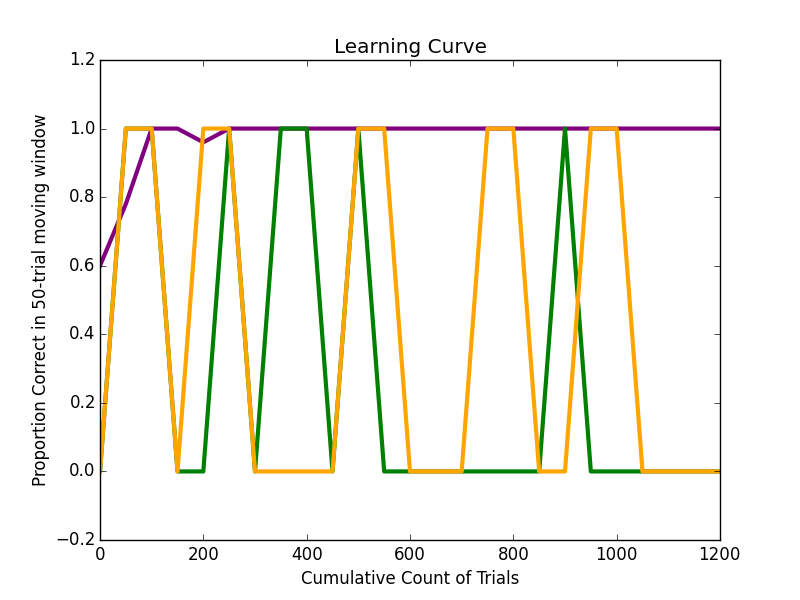
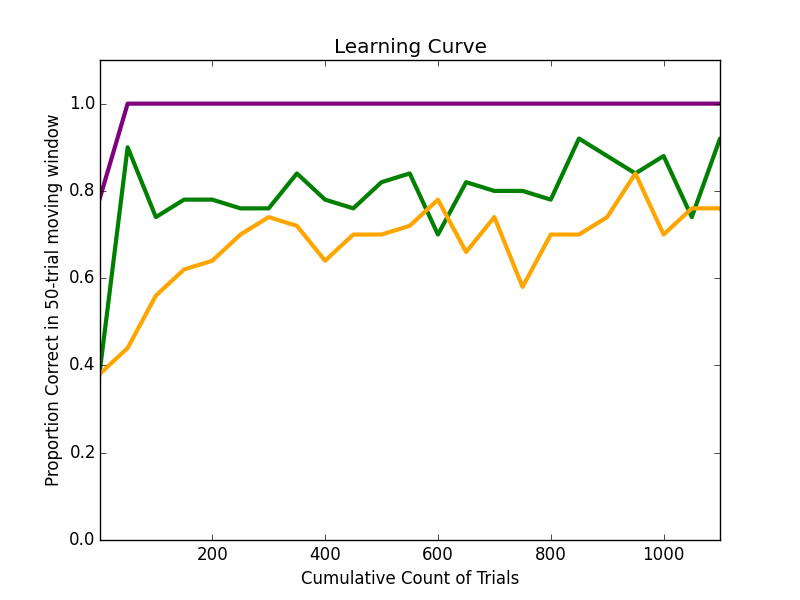
Fixing MovAvg

diff --git a/plotLearning.py b/plotLearning.py
@@ -105,46 +105,28 @@ def plot_results(proportions,trialNum,movAvg,alpha,epsilon,discount):
     plt.show()
 
 
-def plot_avg(proportions,trials,movAvg,alpha,epsilon,discount):
-    trials = range(0, trials, movAvg)
+def plot_avg(proportions,trialNum,movAvg,alpha,epsilon,discount):
+    trials = range(0, trialNum, movAvg)
     figureName = 'LearningCurveMovAvg.png'
     plt.figure('Learning Curve')
 
-    new_length = 25
     #young
-    youngY = prep_data(movAvg,rat_data()[0])
-    youngX = range(1,len(youngY)+1)
-    youngPoints = zip(youngX,youngY)
-    youngPoints = sorted(youngPoints, key=lambda point: point[0])
-    youngX1, youngY1 = zip(*youngPoints)
-    new_youngx = np.linspace(min(youngX1), max(youngX1), new_length)
-    new_youngy = interp1d(youngX1, youngY1, kind='cubic')(new_youngx)
+    youngY = prep_data(movAvg,rat_data()[0])[0]
 
     #old
-    oldY = prep_data(movAvg,rat_data()[1])
-    oldX = range(1,len(oldY)+1)
-    oldPoints = zip(oldX, oldY)
-    oldPoints = sorted(oldPoints, key=lambda point: point[0])
-    oldX1, oldY1 = zip(*oldPoints)
-    new_oldx = np.linspace(min(oldX1), max(oldX1), new_length)
-    new_oldy = interp1d(oldX1, oldY1, kind='cubic')(new_oldx)
+    oldY = prep_data(movAvg,rat_data()[1])[0]
 
     #agent
-    x = range(1,len(oldY)+1)
-    y = proportions
-    points = zip(x, y)
-    points = sorted(points, key=lambda point: point[0])
-    x1, y1 = zip(*points)
-    new_x = np.linspace(min(x1), max(x1), new_length)
-    new_y = interp1d(x1, y1, kind='cubic')(new_x)
+    y = proportions[0:len(oldY)]
 
-    agent = plt.plot(new_x, new_y, '-')
-    young = plt.plot(new_youngx, new_youngy, '-')
-    old = plt.plot(new_oldx, new_oldy, '-')
+    agent = plt.plot(trials, y, '-')
+    young = plt.plot(trials, youngY, '-')
+    old = plt.plot(trials, oldY, '-')
     plt.setp(agent, linewidth=3, color='purple',
              label='agent:\nalpha={0}\nepsilon={1}\ngamma={2}'.format(alpha, epsilon, discount))
     plt.setp(young, linewidth=3, color='green', label='young')
     plt.setp(old, linewidth=3, color='orange', label='old')
+    plt.axis([1.0, 1100.0, 0, 1.1])
     plt.title('Learning Curve')
     plt.xlabel("Cumulative Count of Trials")
     plt.ylabel("Proportion Correct in " + str(movAvg) + "-trial moving window")
